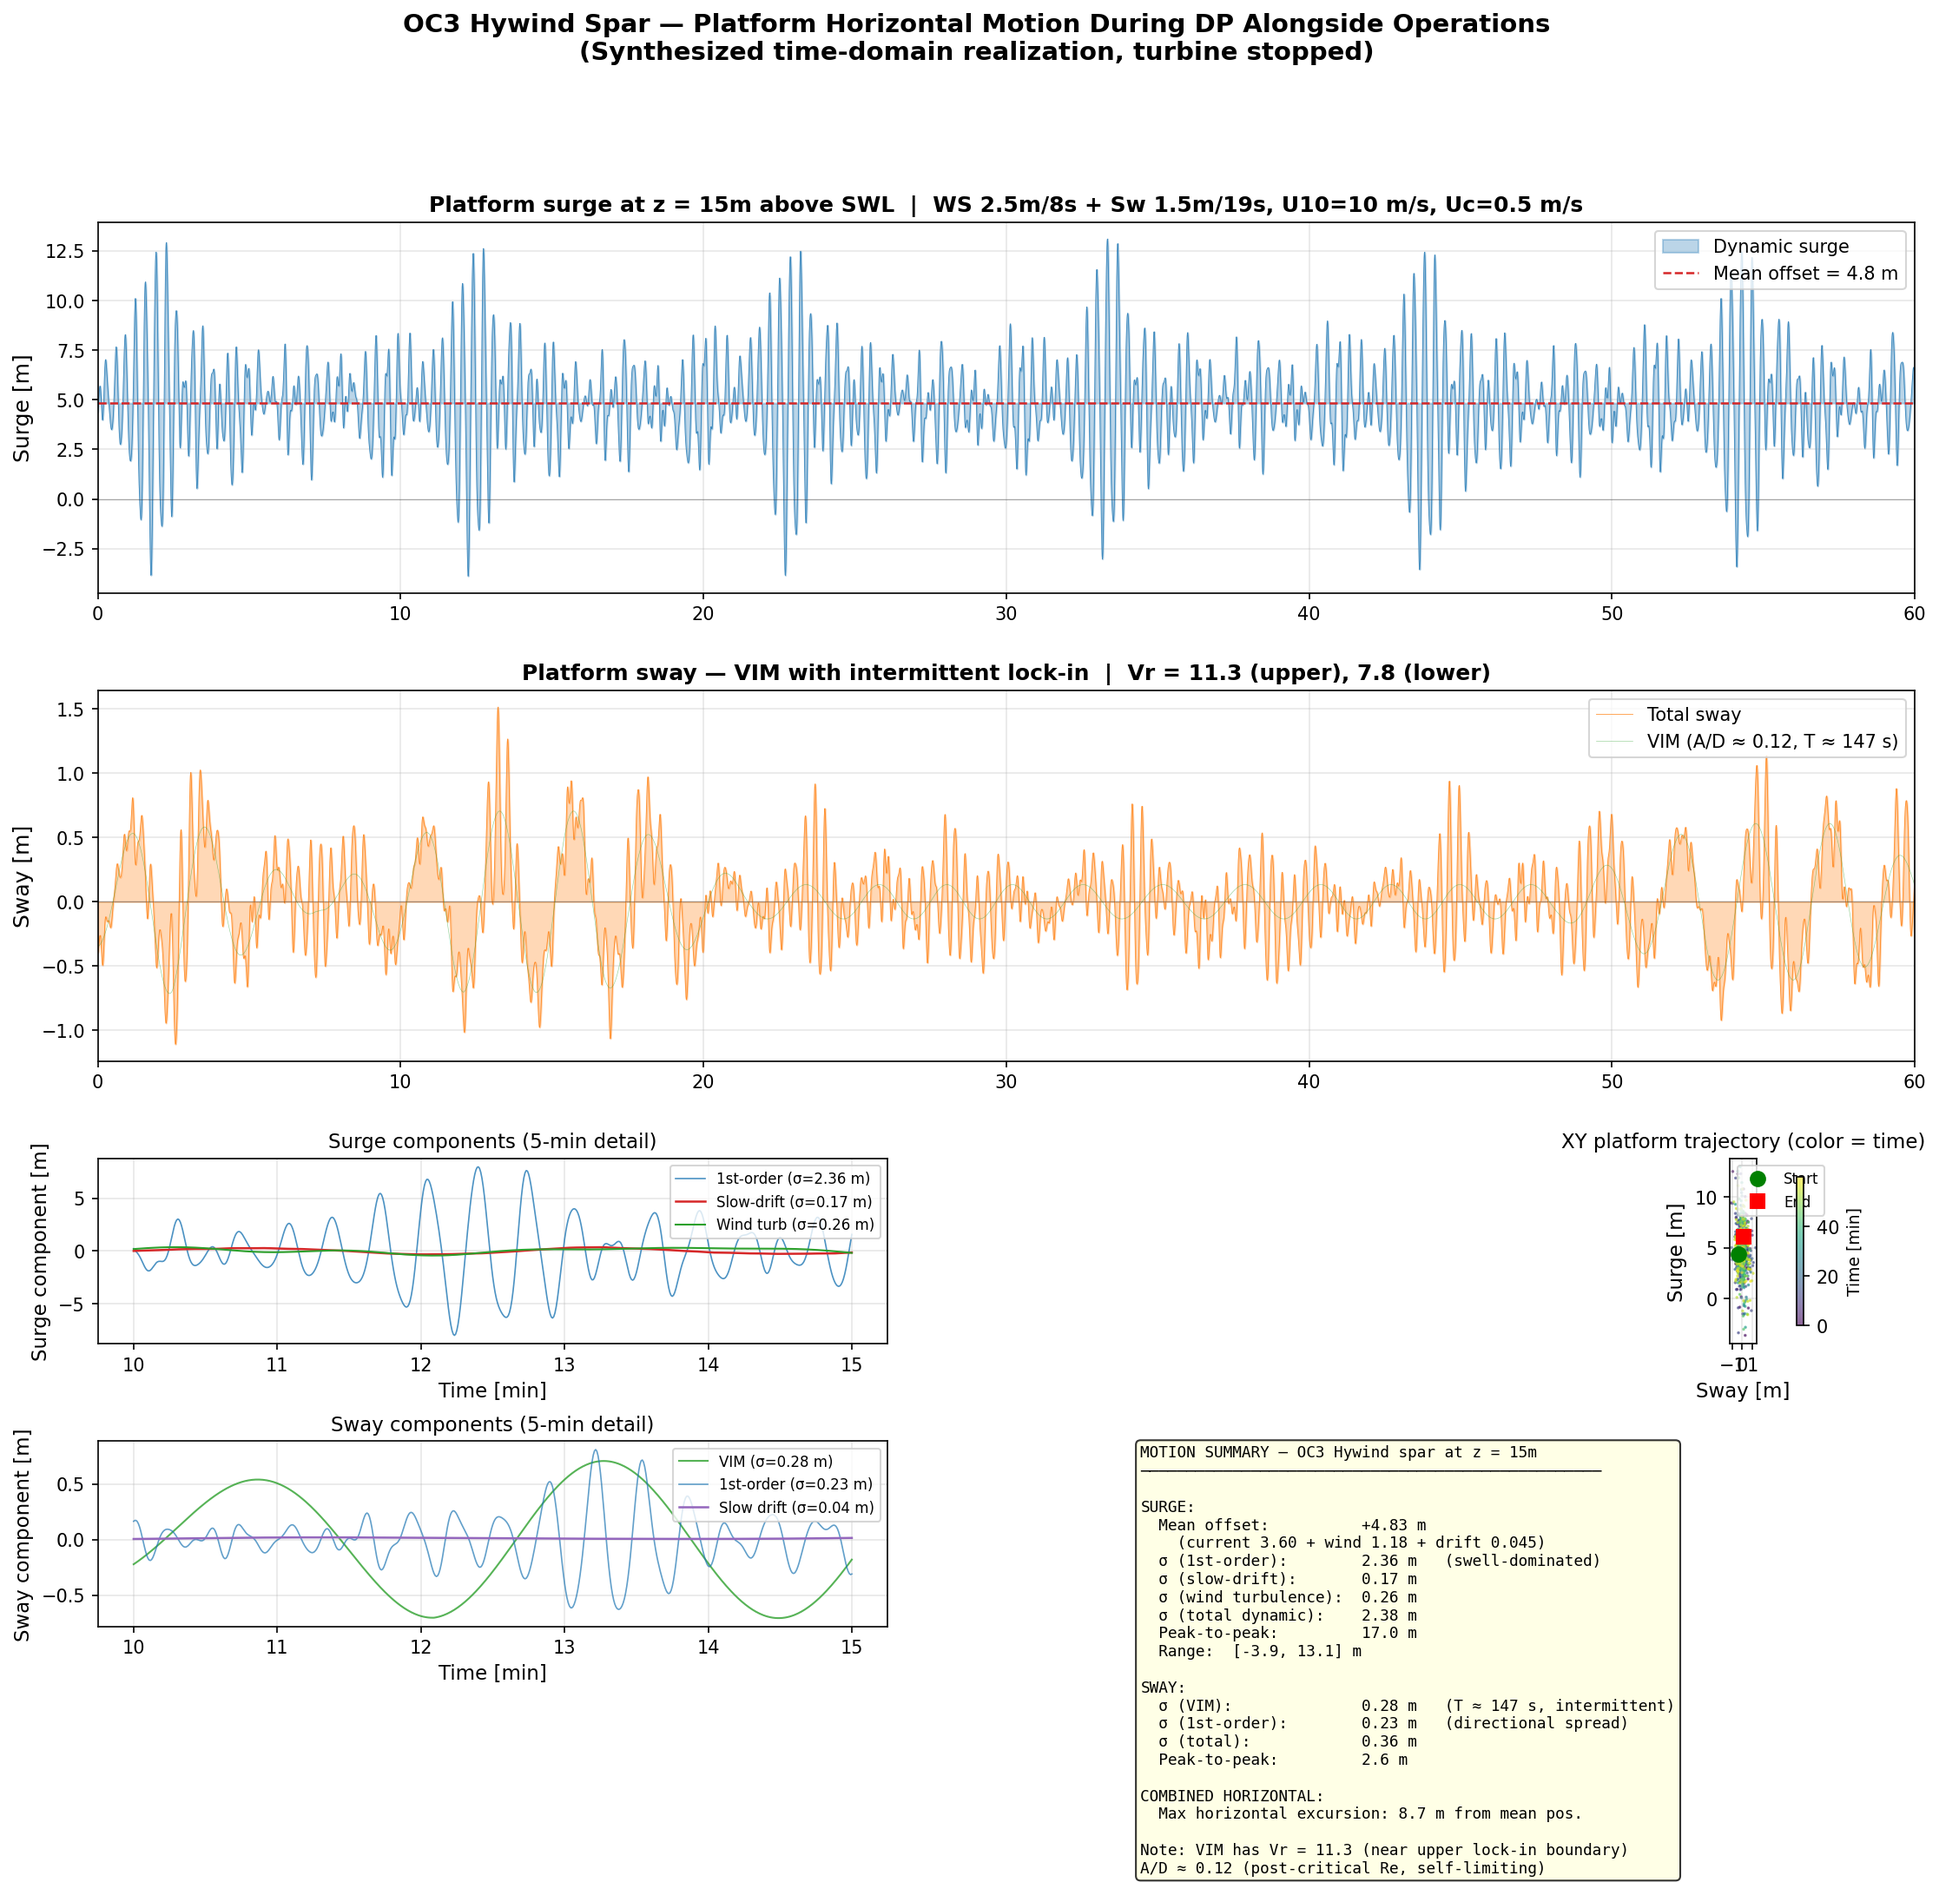
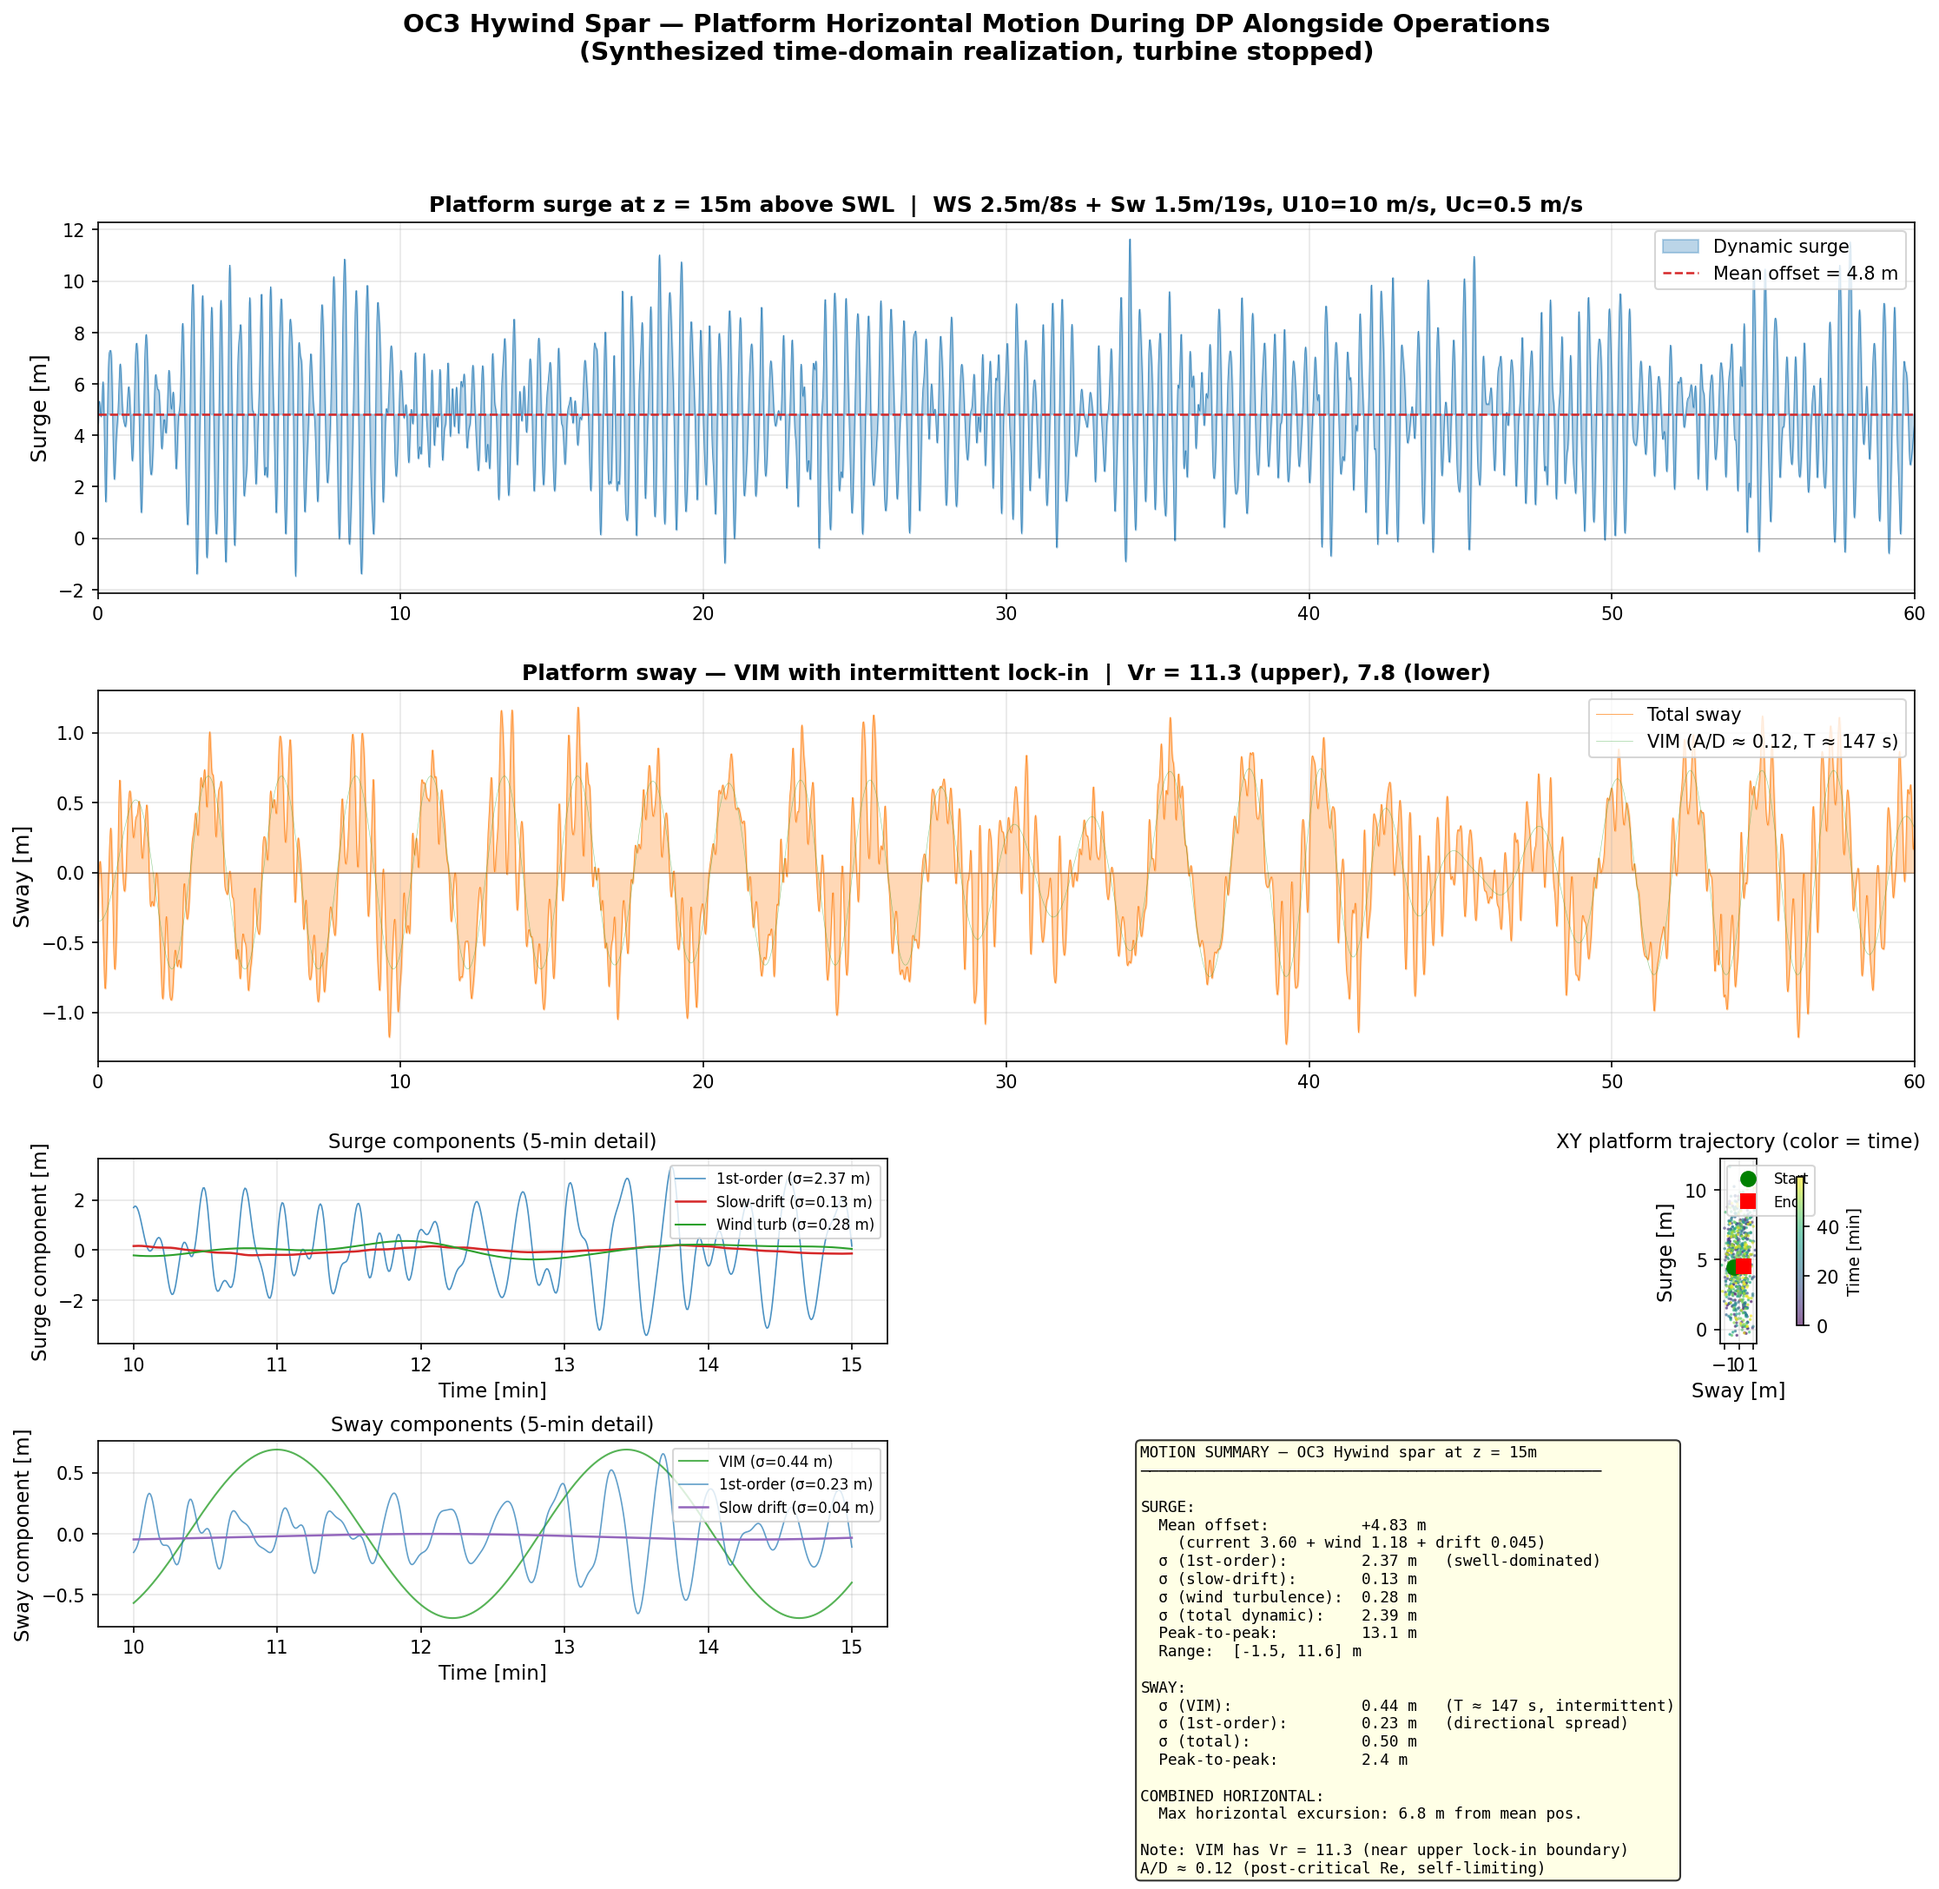
Fix artificial repetition in synthesized motion using geometric frequency spacing
Linear frequency spacing (Δω=0.01 rad/s) caused the synthesized signal to
repeat after T=2π/Δω=628s (~10.5 min). Replaced with geometric spacing
(ω_{i+1}/ω_i = const) which breaks the common-divisor relationship,
giving effectively infinite repeat time. RAO and QTF data interpolated
from Nemoh's linear grid onto 200-point geometric grid before synthesis.

diff --git a/pdstrip_cat/platform_motion_plot.py b/pdstrip_cat/platform_motion_plot.py
@@ -21,6 +21,13 @@ VIM is modeled as a narrow-band oscillation at ω_n with amplitude modulation
 to capture intermittent lock-in/unlock behavior typical of post-critical
 Re flow around deep-draft spars.
 
+IMPORTANT: All spectral synthesis uses GEOMETRICALLY spaced frequencies
+to avoid artificial repetition. With linear spacing Δω, the signal repeats
+after T_repeat = 2π/Δω (e.g., 628 s for Δω=0.01). Geometric spacing
+breaks this common-divisor relationship, giving effectively infinite
+repeat time. The RAO and QTF data (on Nemoh's linear grid) are
+interpolated onto the geometric grid before synthesis.
+
 The resulting plot shows the chaotic, multi-frequency character of the
 platform motion that a DP vessel must track during alongside operations.
 
@@ -56,6 +63,31 @@ from combined_motion import bimodal_spectrum
 
 # Compatibility
 trapz = np.trapezoid if hasattr(np, 'trapezoid') else np.trapz
+
+
+def make_geometric_omega(omega_min, omega_max, n):
+    """
+    Create a geometrically spaced frequency vector.
+
+    With geometric spacing, consecutive frequency ratios are constant:
+        ω_{i+1} / ω_i = r = (omega_max/omega_min)^(1/(n-1))
+
+    This breaks the common-divisor relationship between frequencies that
+    causes synthesized signals to repeat after T = 2π/Δω with linear
+    spacing. The result is an effectively infinite repeat time.
+
+    Parameters
+    ----------
+    omega_min : float, lowest frequency [rad/s]
+    omega_max : float, highest frequency [rad/s]
+    n : int, number of frequencies
+
+    Returns
+    -------
+    omega : 1D array, geometrically spaced frequencies [rad/s]
+    """
+    return np.geomspace(omega_min, omega_max, n)
+
 
 # ============================================================
 # File paths
@@ -123,6 +155,7 @@ def synthesize_narrowband(omega_center, bandwidth, sigma, t, rng=None):
     Synthesize a narrow-band process centered at omega_center.
 
     Models slow-drift or VIM as a narrow-band Gaussian process.
+    Uses geometric frequency spacing to avoid artificial repetition.
 
     Parameters
     ----------
@@ -141,11 +174,11 @@ def synthesize_narrowband(omega_center, bandwidth, sigma, t, rng=None):
     if sigma <= 0:
         return np.zeros_like(t)
 
-    # Create narrow Gaussian spectrum
+    # Create narrow Gaussian spectrum on GEOMETRIC frequency grid
     n_freq = 200
-    omega = np.linspace(max(1e-4, omega_center - 3*bandwidth),
-                        omega_center + 3*bandwidth, n_freq)
-    dw = omega[1] - omega[0]
+    omega_lo = max(1e-4, omega_center - 3*bandwidth)
+    omega_hi = omega_center + 3*bandwidth
+    omega = make_geometric_omega(omega_lo, omega_hi, n_freq)
 
     # Gaussian spectral shape
     S = np.exp(-0.5 * ((omega - omega_center) / bandwidth)**2)
@@ -282,9 +315,28 @@ def main():
     # ============================================================
     print("  Loading QTF and RAO data...")
     qtf_omegas, qtf_T = parse_qtf_total(QTF_FILE, dof=1, beta=0.0)
-    omega_rao, surge_amp, surge_ph, pitch_amp_deg, pitch_ph = \
+    omega_rao_lin, surge_amp_lin, surge_ph_lin, pitch_amp_deg_lin, pitch_ph_lin = \
         parse_rao_surge_pitch(RAO_FILE)
-    pitch_amp_rad = np.radians(pitch_amp_deg)
+    pitch_amp_rad_lin = np.radians(pitch_amp_deg_lin)
+
+    # ============================================================
+    # Create GEOMETRIC frequency grid for first-order synthesis
+    # ============================================================
+    # With Nemoh's linear Δω=0.01 rad/s, signals repeat after 2π/Δω=628 s.
+    # Geometric spacing breaks this: ω_{i+1}/ω_i = const → no common divisor.
+    N_GEO = 200  # more points than original 80 for good spectral resolution
+    omega_geo = make_geometric_omega(omega_rao_lin[0], omega_rao_lin[-1], N_GEO)
+    print(f"  Geometric frequency grid: {N_GEO} points, "
+          f"ω = [{omega_geo[0]:.4f}, {omega_geo[-1]:.3f}] rad/s, "
+          f"ratio = {omega_geo[1]/omega_geo[0]:.6f}")
+
+    # Interpolate RAO data onto geometric grid
+    # (amplitude and phase interpolated separately to avoid complex wrapping issues)
+    surge_amp = np.interp(omega_geo, omega_rao_lin, surge_amp_lin)
+    surge_ph = np.interp(omega_geo, omega_rao_lin, surge_ph_lin)
+    pitch_amp_rad = np.interp(omega_geo, omega_rao_lin, pitch_amp_rad_lin)
+    pitch_ph = np.interp(omega_geo, omega_rao_lin, pitch_ph_lin)
+    omega_rao = omega_geo  # use geometric grid for all first-order work
 
     # ============================================================
     # SURGE COMPONENTS
@@ -304,25 +356,26 @@ def main():
           f"+ drift {x_mean_drift:.3f})")
 
     # --- 2. First-order surge (bimodal spectrum × apparent surge RAO) ---
-    # Complex RAOs for apparent surge at z
+    # Complex RAOs for apparent surge at z (on geometric grid)
     X_surge = surge_amp * np.exp(1j * surge_ph)
     Theta = pitch_amp_rad * np.exp(1j * pitch_ph)
     X_app = X_surge + z_above_swl * Theta
     RAO_app = np.abs(X_app)
     phase_app = np.angle(X_app)
 
-    # Bimodal wave spectrum at RAO frequencies
+    # Bimodal wave spectrum at geometric frequencies
     S_wave = bimodal_spectrum(omega_rao, Hs_ws, Tp_ws, gamma_ws,
                               Hs_sw, Tp_sw, gamma_sw)
 
-    # Response spectrum
+    # Response spectrum (for σ target on geometric grid)
     S_surge_1st = RAO_app**2 * S_wave
     sigma_1st = np.sqrt(trapz(S_surge_1st, omega_rao))
 
-    # Synthesize first-order with CORRECT RAO phase
-    # x(t) = Σ |RAO| * sqrt(2 * S_wave * dω) * cos(ωt + φ_wave + angle(RAO))
+    # Synthesize first-order with CORRECT RAO phase on GEOMETRIC grid
+    # x(t) = Σ |RAO| * sqrt(2 * S_wave * Δω_i) * cos(ω_i*t + φ_wave + angle(RAO))
+    # For geometric spacing, Δω varies — use per-frequency spacing
     dw = np.diff(omega_rao)
-    dw = np.append(dw, dw[-1])
+    dw = np.append(dw, dw[-1])  # extend to match length
     A_1st = RAO_app * np.sqrt(2 * S_wave * dw)
     phi_wave = master_rng.uniform(0, 2 * np.pi, size=len(omega_rao))
     surge_1st = np.zeros(n_t)
@@ -339,12 +392,24 @@ def main():
           f"(target {sigma_1st:.3f})")
 
     # --- 3. Slow-drift surge (from QTF) ---
-    mu, S_F = compute_slow_drift_force_spectrum(qtf_omegas, qtf_T, S_total_qtf)
-    H = surge_transfer_function(mu, MASS, A11_LOW, B_EXT, K_SURGE)
-    S_sd = np.abs(H)**2 * S_F
-    sigma_sd = np.sqrt(trapz(S_sd, mu))
+    mu_lin, S_F = compute_slow_drift_force_spectrum(qtf_omegas, qtf_T, S_total_qtf)
+    H_lin = surge_transfer_function(mu_lin, MASS, A11_LOW, B_EXT, K_SURGE)
+    S_sd_lin = np.abs(H_lin)**2 * S_F
+    sigma_sd = np.sqrt(trapz(S_sd_lin, mu_lin))
 
-    surge_sd = synthesize_from_spectrum(mu, S_sd, t,
+    # Interpolate slow-drift response spectrum onto geometric mu grid
+    # (mu is difference-frequency, typically 0 to ~0.2 rad/s)
+    mu_pos = mu_lin[mu_lin > 0]
+    S_sd_pos = S_sd_lin[mu_lin > 0]
+    if len(mu_pos) > 2:
+        N_MU_GEO = 150
+        mu_geo = make_geometric_omega(mu_pos[0], mu_pos[-1], N_MU_GEO)
+        S_sd_geo = np.interp(mu_geo, mu_pos, S_sd_pos)
+    else:
+        mu_geo = mu_pos
+        S_sd_geo = S_sd_pos
+
+    surge_sd = synthesize_from_spectrum(mu_geo, S_sd_geo, t,
                                         rng=np.random.default_rng(master_rng.integers(1e9)))
     print(f"    Slow-drift surge: σ={np.std(surge_sd):.3f} m "
           f"(target {sigma_sd:.3f})")
